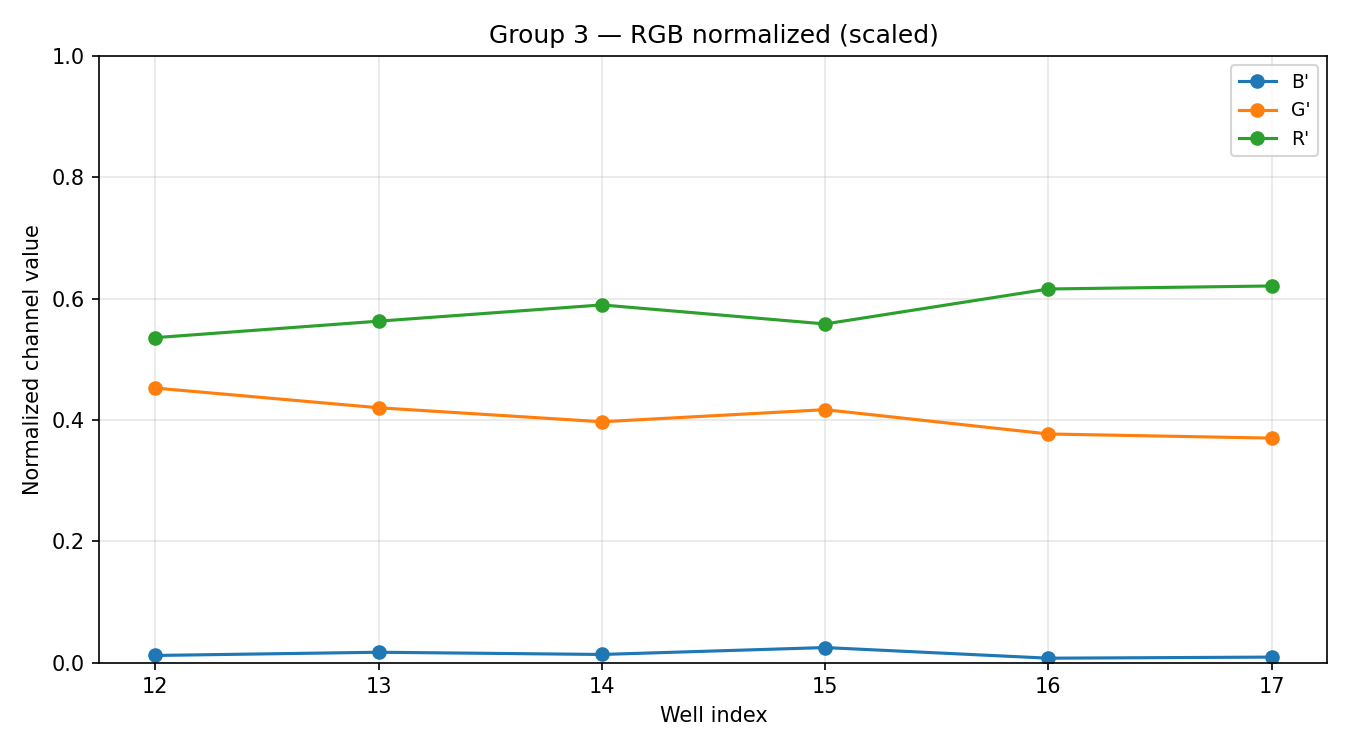
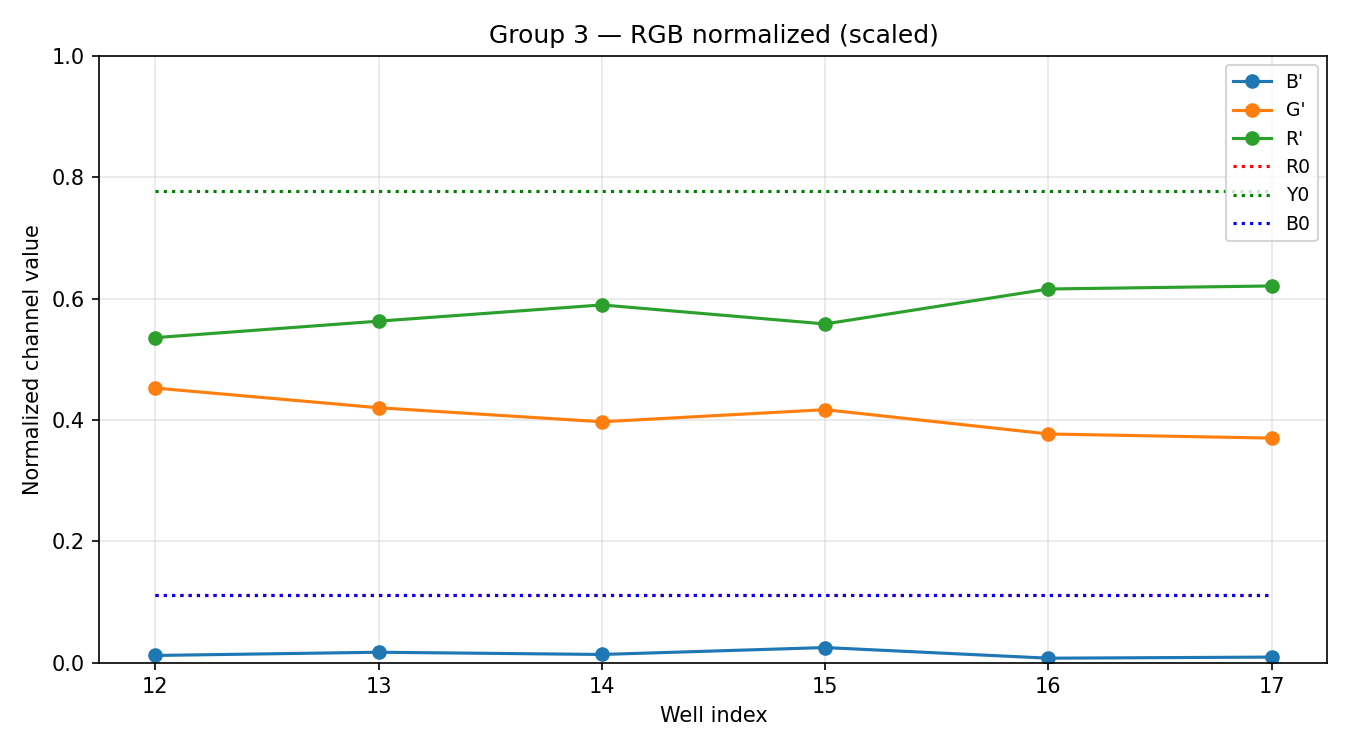
plots: overlay expected R/Y/B dotted lines on all RGB normalized plots (per-group + combined)

Changed region(s): [[0.9022, 0.092, 0.9956, 0.3067]]

diff --git a/tests/analysis/uncertainty_plot_and_stats.py b/tests/analysis/uncertainty_plot_and_stats.py
@@ -216,6 +216,20 @@ def write_normalized_outputs(df: pd.DataFrame, out_dir: Path):
                 plt.ylabel("Normalized channel value")
                 plt.ylim(0, 1)
                 plt.grid(True, alpha=0.3)
+                # Overlay expected R/Y/B dotted lines for RGB normalized (scaled)
+                if cs == 'RGB':
+                    expected = get_expected_compositions('dominant')
+                    comp = expected.get(int(group_id), {'R': 0.33, 'Y': 0.33, 'B': 0.33})
+                    total = comp['R'] + comp['Y'] + comp['B']
+                    r0 = comp['R'] / total if total else np.nan
+                    y0 = comp['Y'] / total if total else np.nan
+                    b0 = comp['B'] / total if total else np.nan
+                    xmin = pivot.index.min() if len(pivot.index) else None
+                    xmax = pivot.index.max() if len(pivot.index) else None
+                    if xmin is not None and xmax is not None:
+                        plt.hlines([r0], xmin=xmin, xmax=xmax, colors='r', linestyles='dotted', label='R0')
+                        plt.hlines([y0], xmin=xmin, xmax=xmax, colors='g', linestyles='dotted', label='Y0')
+                        plt.hlines([b0], xmin=xmin, xmax=xmax, colors='b', linestyles='dotted', label='B0')
                 plt.legend(fontsize=9)
                 plt.tight_layout()
                 out_png = out_dir / f"trend_group_{group_id}_{cs}_normalized_scaled.png"
